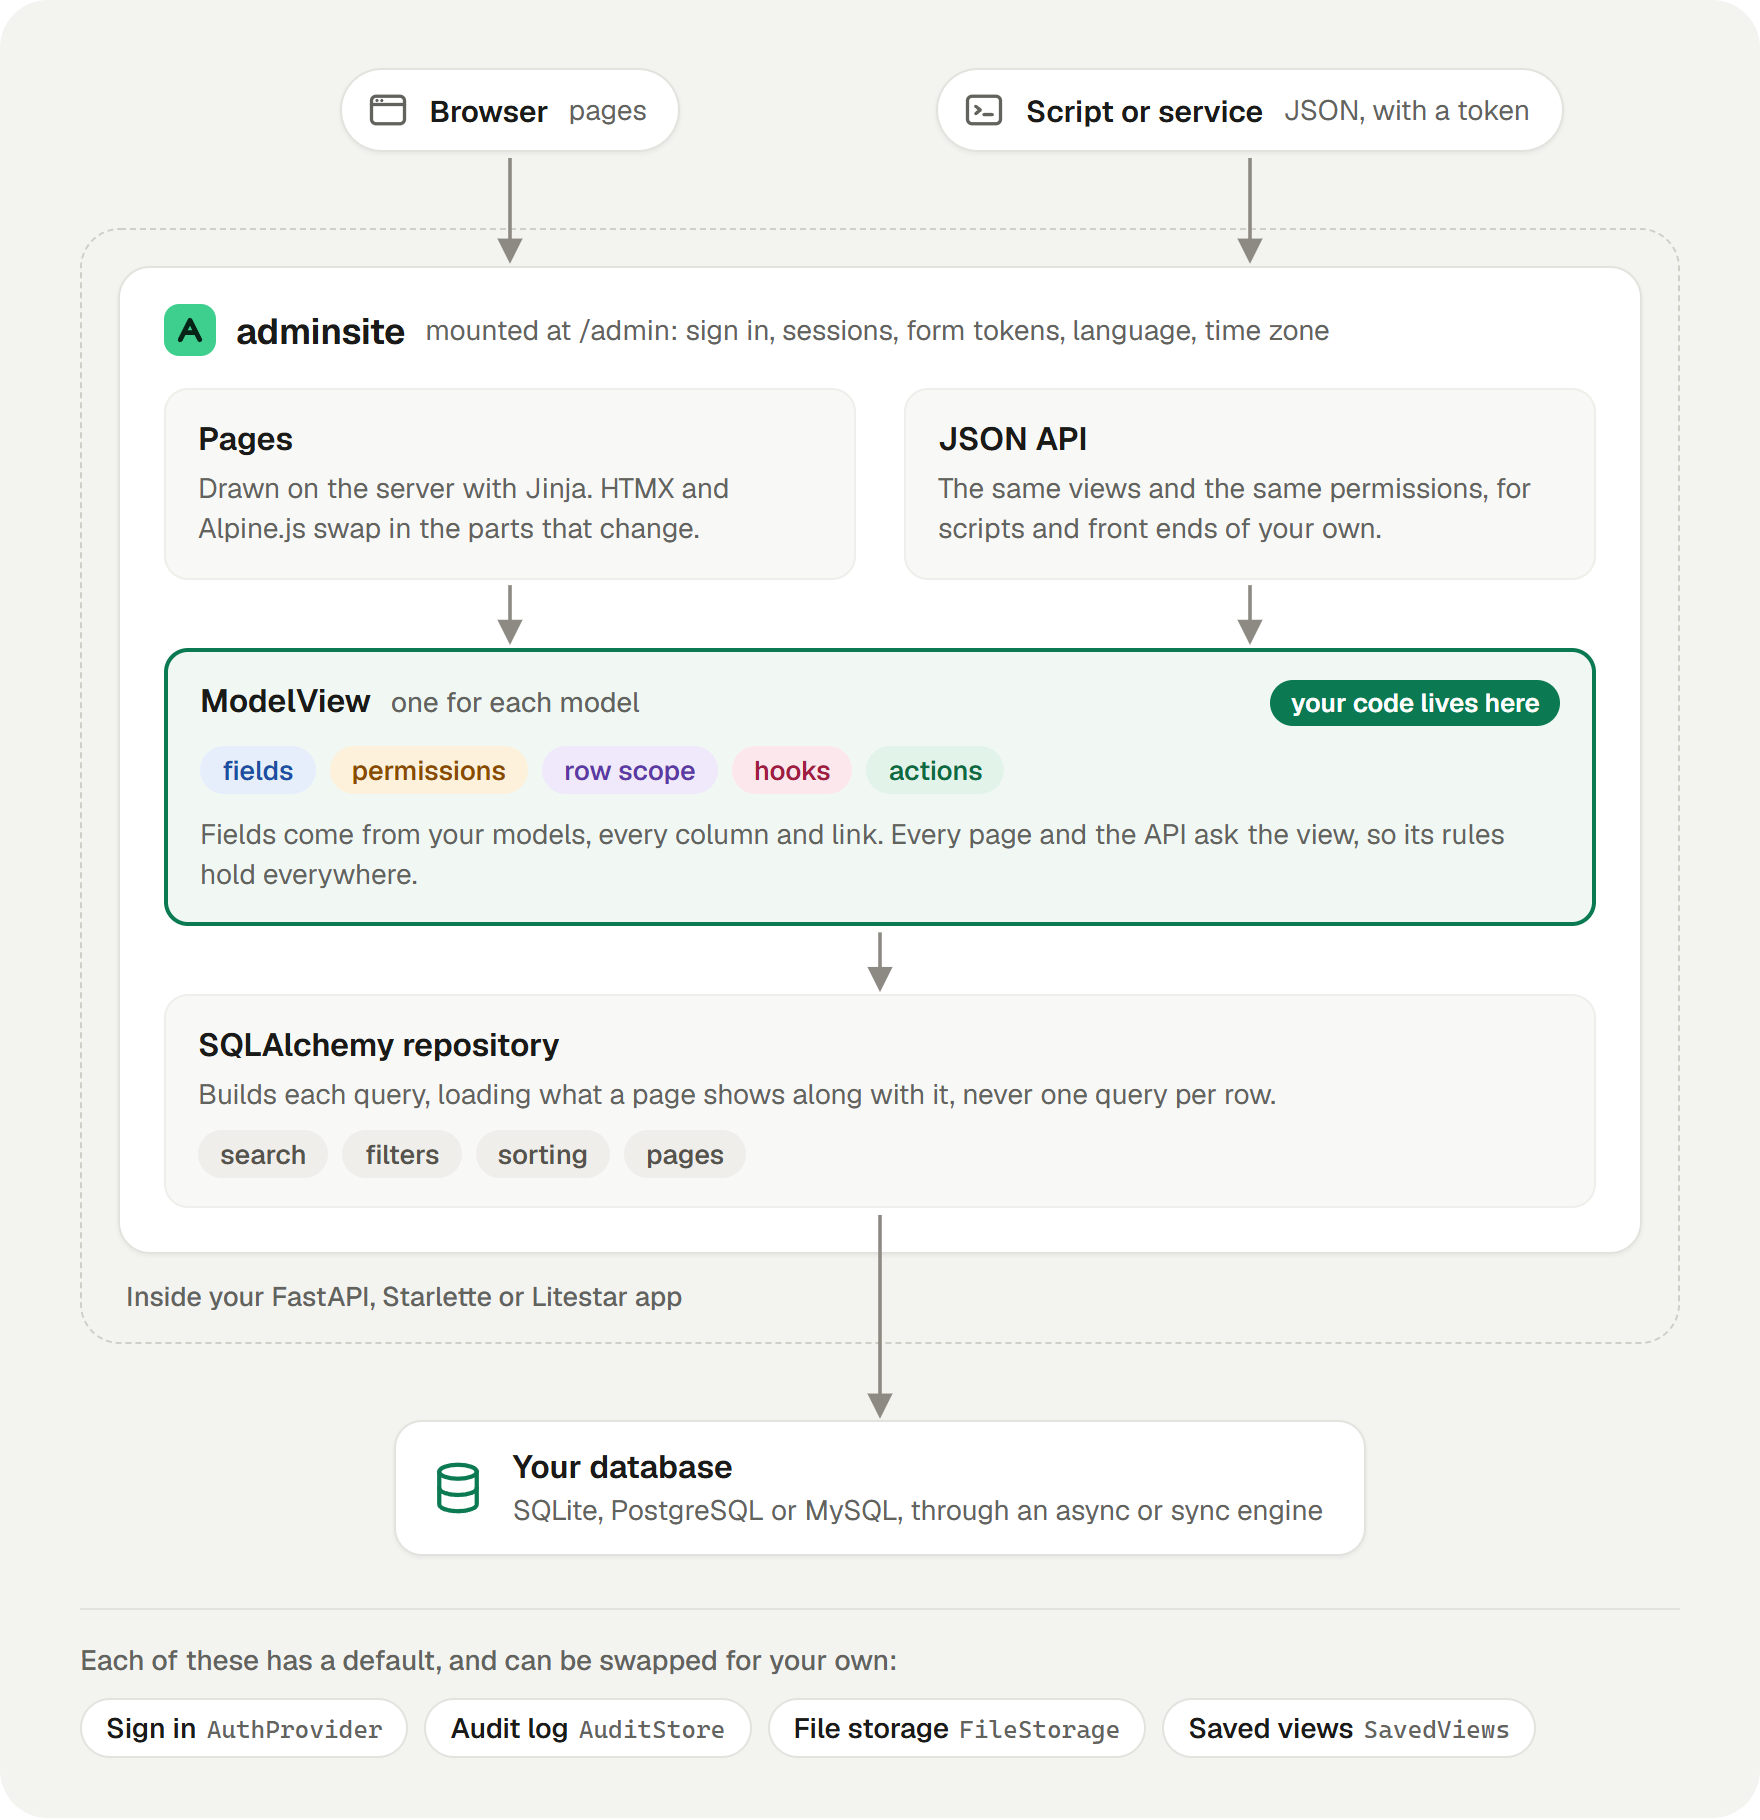
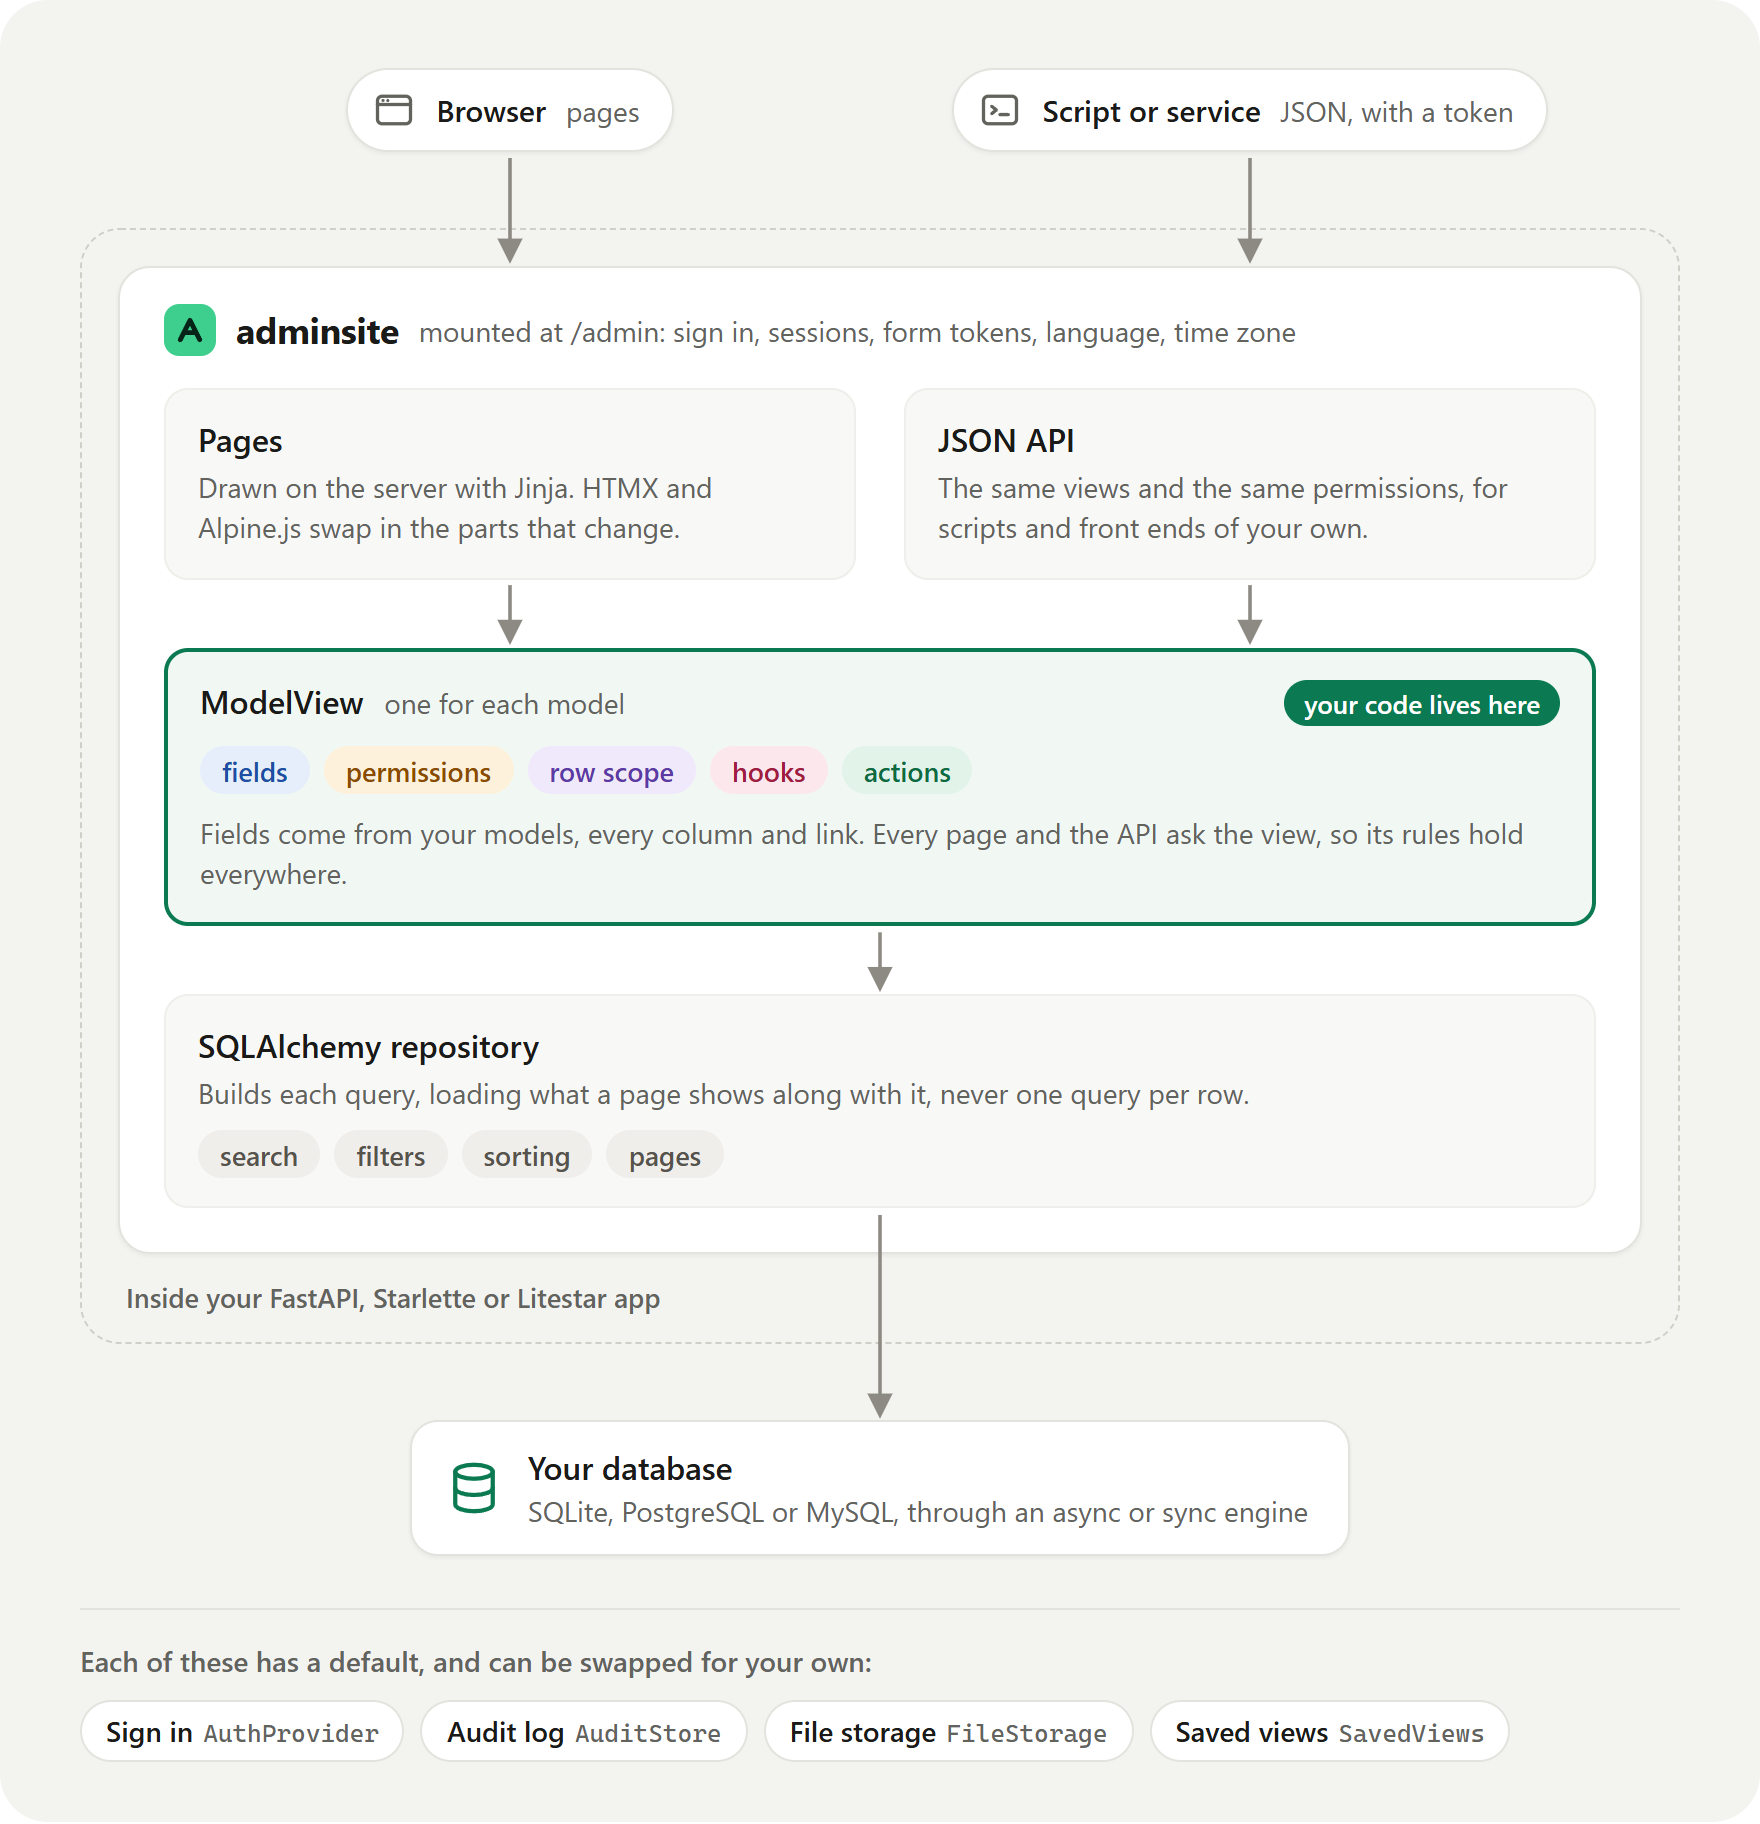
docs: the README pictures in the system's typeface, and its new features

diff --git a/README.md b/README.md
@@ -54,6 +54,8 @@ signing in included, in a few minutes.
   with filters and saved views, a page for each record, and forms with validation.
 - [Editing in the list](https://nimaxin.github.io/adminsite/views/#editing-in-the-list) for a value
   that changes often, such as an order's status.
+- [Lists that keep up to date](https://nimaxin.github.io/adminsite/views/#keeping-the-list-up-to-date)
+  on their own, for records that come in while people watch, such as new orders.
 - [Form layouts](https://nimaxin.github.io/adminsite/views/#arranging-the-fields) with panels, rows
   and tabs, which the record page follows too.
 - [Related records](https://nimaxin.github.io/adminsite/fields/#links-to-many-records): pick a
@@ -62,7 +64,7 @@ signing in included, in a few minutes.
 - [JSON columns](https://nimaxin.github.io/adminsite/fields/#a-form-built-from-a-schema) edited with
   a form built from a Pydantic model or a TypedDict, instead of a code box.
 - [Built-in filters](https://nimaxin.github.io/adminsite/filters/) for choices, yes or no, number
-  and date ranges, related records and text.
+  and date ranges, related records picked by name, and text.
 - [Custom filters](https://nimaxin.github.io/adminsite/filters/#writing-your-own) for anything the
   built-in ones do not cover, such as "overdue" or "spent over €1,000".
 - [Actions](https://nimaxin.github.io/adminsite/actions/) that run your own code on the selected
@@ -87,8 +89,8 @@ signing in included, in a few minutes.
   user table.
 - [Pages and plugins](https://nimaxin.github.io/adminsite/pages/) of your own, such as reports or
   settings, in the same layout.
-- [Translations](https://nimaxin.github.io/adminsite/translations/), with Persian built in and right
-  to left layouts, and every time shown in the reader's time zone.
+- [Translations](https://nimaxin.github.io/adminsite/translations/) into eleven languages, among
+  them Persian and Arabic laid out right to left, and every time shown in the reader's time zone.
 - [Light and dark themes](https://nimaxin.github.io/adminsite/customizing/), a layout for phones,
   and [pages that work](https://nimaxin.github.io/adminsite/accessibility/) with a keyboard and a
   screen reader.
